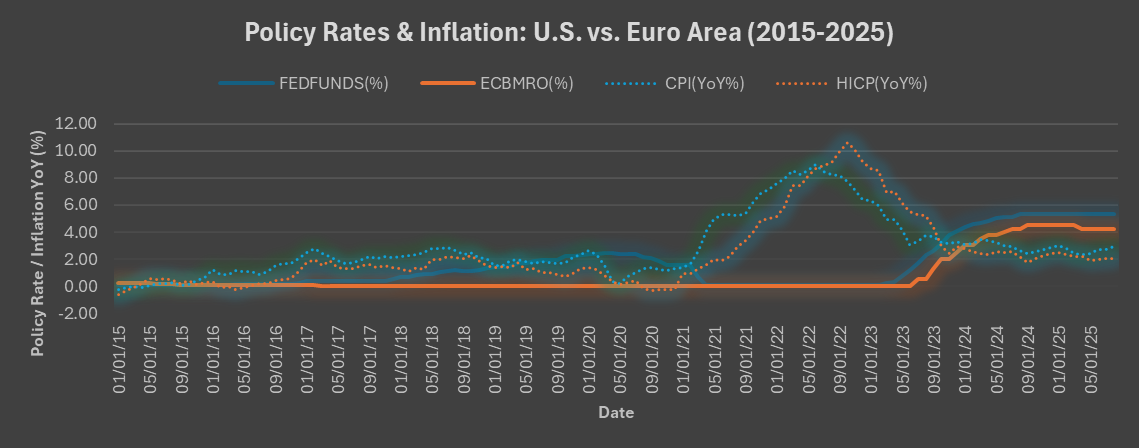
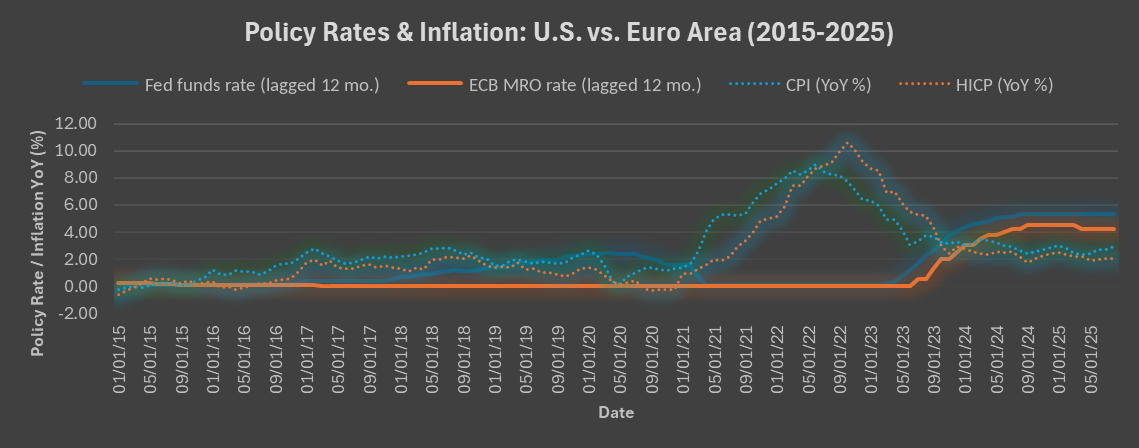
Sync brief with Word version: lag notes, supporting charts, references

Changed region(s): [[0.3995, 0.1562, 0.9219, 0.2188], [0.0615, 0.1562, 0.3687, 0.2188]]

diff --git a/brief.html b/brief.html
@@ -34,6 +34,8 @@ h1 { font-size: clamp(2rem, 5vw, 3rem); line-height: 1.15; margin: 0 0 0.5rem; }
 h2 { font-size: 1.5rem; margin: 3rem 0 1rem; }
 .meta { font-family: "JetBrains Mono", monospace; font-size: 0.8125rem; color: var(--soft); }
 .back { font-size: 0.9375rem; text-decoration: none; }
+.refs { list-style: none; padding: 0; font-size: 0.875rem; color: var(--soft); }
+.refs li { margin: 0 0 0.6rem; padding-left: 1.5rem; text-indent: -1.5rem; overflow-wrap: anywhere; }
 </style>
 </head>
 <body>
@@ -42,19 +44,19 @@ h2 { font-size: 1.5rem; margin: 3rem 0 1rem; }
   <h1>Do central bank wins translate to household wins?</h1>
   <p class="meta">U.S. vs. Euro Area, 2015 to 2025 · Ben Coppage · October 2025</p>
 
-    <section>
+  <section>
     <h2>The Finding</h2>
-    <p>In the end, both the Federal Reserve and the European Central Bank achieved their narrow mandates of disinflation between 2023 and 2025. Inflation converged toward 2 percent, unemployment remained stable, and financial systems avoided crisis. Growth diverged more sharply: U.S. real GDP averaged about 2.8 percent in 2024, while the Euro Area ran at about 1.5 percent in the first half of 2025, still well below the U.S. pace.</p>
-    <p>Yet beneath those aggregates, household balance sheets told a different story. From 2023 to early 2025, U.S. households had savings rates hovering around 5 to 6 percent and debt levels in the range of 68 to 74 percent of GDP. By contrast, Euro Area households maintained significantly higher savings rates of about 13 to 15 percent and lower debt ratios of roughly 51 to 55 percent of GDP. These indicators show that while the macro picture converged, the micro foundations of resilience diverged.</p>
+    <p>In the end, both the Federal Reserve and the European Central Bank achieved their narrow mandates of disinflation between 2023 and 2025. Inflation converged toward 2 percent, unemployment remained stable, and financial systems avoided crisis. Growth diverged more sharply: in 2024, U.S. real GDP growth averaged about 2.8 percent against about 0.8 percent in the Euro Area. In the first half of 2025, the U.S. ran near 2.1 percent and the Euro Area near 1.5 percent, still below the U.S. pace.</p>
+    <p>Yet beneath those aggregates, household balance sheets told a different story. From 2023 through mid-2025, U.S. household savings rates ran between 4.7 and 6.1 percent, with debt at 68 to 74 percent of GDP. By contrast, Euro Area households saved 13.4 to 15.2 percent and carried debt of 51 to 55 percent of GDP. These indicators show that while the macro picture converged, the micro foundations of resilience diverged.</p>
   </section>
 
-    <section>
+  <section>
     <h2>Exhibits</h2>
 
     <figure style="margin:0 0 2.5rem;">
       <h3 style="font-size:1.0625rem;margin:0 0 0.75rem;">Exhibit 1: Policy rates and inflation paths, U.S. vs. Euro Area, 2015 to 2025</h3>
-      <img src="images/exhibit1.png" alt="Line chart, 2015 to 2025, of the federal funds rate and ECB main refinancing rate (shifted 12 months) with U.S. CPI and Euro Area HICP inflation." style="max-width:100%;height:auto;border-radius:6px;border:1px solid var(--line);">
-      <figcaption style="color:var(--soft);font-size:0.9375rem;margin-top:0.75rem;">Both central banks raised rates sharply in 2022 and 2023. U.S. inflation peaked at 9.0 percent in June 2022, and both regions fell back toward 2 percent.<br><span class="meta">Sources: FRED, European Central Bank, Eurostat. Policy rates shown with a 12-month lag.</span></figcaption>
+      <img src="images/exhibit1.png" alt="Line chart, 2015 to 2025, of the federal funds rate and ECB main refinancing rate (lagged 12 months) with U.S. CPI and Euro Area HICP inflation." style="max-width:100%;height:auto;border-radius:6px;border:1px solid var(--line);">
+      <figcaption style="color:var(--soft);font-size:0.9375rem;margin-top:0.75rem;">Policy rates are shifted forward 12 months for the delay before they affect inflation, so the 2022 hikes appear in 2023. Inflation peaked at 9.0 percent in the U.S. (June 2022) and 10.6 percent in the Euro Area (October 2022), then fell back toward 2 percent.<br><span class="meta">Sources: FRED, European Central Bank, Eurostat. Rates run through August 2024; inflation through August 2025.</span></figcaption>
     </figure>
 
     <figure style="margin:0 0 2.5rem;">
@@ -70,25 +72,57 @@ h2 { font-size: 1.5rem; margin: 3rem 0 1rem; }
     </figure>
   </section>
 
-   <section>
+  <section>
     <h2>Why It Matters</h2>
     <p>Euro Area member states maintain more robust social welfare systems and stronger worker protections, reinforcing household resilience even amid slower growth. The United States, by contrast, delivers faster expansion but leaves households more vulnerable.</p>
     <p>The lesson for both institutions is clear: monetary policy outcomes must not be assessed in isolation, but in concert with fiscal and social policy, domains neither central bank governs.</p>
   </section>
 
-   <section>
+  <section>
     <h2>Method Note</h2>
-    <p><strong>Data.</strong> Policy rates are the federal funds rate (FRED) and the ECB main refinancing rate (ECB). Inflation is U.S. CPI and Euro Area HICP, year-over-year. Unemployment and real GDP growth (year-over-year) are U.S. series from FRED and Euro Area series from Eurostat. Household saving rates and household debt-to-GDP come from the Bank for International Settlements. Monthly series run from 2015 to 2025. Unemployment, GDP growth, and the Phillips curve cover 2023 to 2025. Household series are quarterly and run through early 2025.</p>
+    <p><strong>Data.</strong> Policy rates are the federal funds rate (FRED) and the ECB main refinancing rate (ECB). Policy rates are lagged 12 months to align rate changes with their expected effect on inflation. Rate changes act on prices with a delay (Friedman, 1961), and a meta-analysis puts the average lag to the peak effect on prices at 29 months (Havranek and Rusnak, 2013). This brief uses 12 months, a conservative choice at the short end of that range. Inflation is U.S. CPI and Euro Area HICP, year-over-year. Unemployment and real GDP growth (year-over-year) are U.S. series from FRED and Euro Area series from Eurostat. Household saving rates and household debt-to-GDP come from the Bank for International Settlements. Monthly inflation and unemployment series run from 2015 through August 2025. The policy rate series runs from 2014 through August 2024. Unemployment, GDP growth, and the Phillips curve cover 2023 to 2025. Household series are quarterly: saving rates run through 2025 Q2 and debt-to-GDP through 2025 Q1.</p>
     <p><strong>What was compared.</strong> Each series was compared across the U.S. and the Euro Area over the same window. The question was whether disinflation toward the 2 percent target came with stable unemployment and continued growth, and whether household balance sheets looked the same on both sides.</p>
     <p><strong>Limitations.</strong></p>
     <ul>
-      <li>The rate series ends August 2024. Any claim about late 2024 rate cuts depends on an external source.</li>
-      <li>Policy rates in Exhibit 1 are shown with a 12-month lag to reflect transmission effects.</li>
+      <li>Policy rate data ends August 2024. It does not include the rate cuts that followed.</li>
       <li>The differences cannot be attributed to monetary policy alone. Fiscal and social policy sit outside the central banks' mandates and outside the scope of the data.</li>
     </ul>
   </section>
 
-  <!-- NEXT SECTION GOES HERE -->
+  <section>
+    <h2>Supporting Charts</h2>
+
+    <figure style="margin:0 0 2.5rem;">
+      <h3 style="font-size:1.0625rem;margin:0 0 0.75rem;">Figure 1: Unemployment rates, U.S. vs. Euro Area, 2023 to 2025</h3>
+      <img src="images/figure1.png" alt="Line chart of monthly unemployment, January 2023 to August 2025: U.S. between 3.4 and 4.3 percent, Euro Area between 6.2 and 6.7 percent." style="max-width:100%;height:auto;border-radius:6px;border:1px solid var(--line);">
+      <figcaption style="color:var(--soft);font-size:0.9375rem;margin-top:0.75rem;">U.S. unemployment remained stable around 3.4 to 4.3 percent, while Euro Area unemployment persisted at a higher level of 6.2 to 6.7 percent.<br><span class="meta">Sources: FRED, Eurostat.</span></figcaption>
+    </figure>
+
+    <figure style="margin:0 0 2.5rem;">
+      <h3 style="font-size:1.0625rem;margin:0 0 0.75rem;">Figure 2: Real GDP growth, year-over-year, U.S. vs. Euro Area, 2023 to 2025</h3>
+      <img src="images/figure2.png" alt="Line chart of quarterly year-over-year real GDP growth, 2023 Q1 to 2025 Q2: U.S. between 2.0 and 3.4 percent, Euro Area between 0.0 and 1.6 percent." style="max-width:100%;height:auto;border-radius:6px;border:1px solid var(--line);">
+      <figcaption style="color:var(--soft);font-size:0.9375rem;margin-top:0.75rem;">Quarterly year-over-year real GDP growth in the United States and the Euro Area.<br><span class="meta">Sources: FRED, Eurostat.</span></figcaption>
+    </figure>
+
+    <figure style="margin:0 0 2.5rem;">
+      <h3 style="font-size:1.0625rem;margin:0 0 0.75rem;">Figure 3: Phillips curve, U.S. vs. Euro Area, 2023 to 2025</h3>
+      <img src="images/figure3.png" alt="Scatterplot of inflation against unemployment, 2023 to 2025: U.S. points at 3.4 to 4.3 percent unemployment, Euro Area points at 6.2 to 6.7 percent." style="max-width:100%;height:auto;border-radius:6px;border:1px solid var(--line);">
+      <figcaption style="color:var(--soft);font-size:0.9375rem;margin-top:0.75rem;">U.S. points cluster at 3.4 to 4.3 percent unemployment with inflation between 2.3 and 6.3 percent. Euro Area points cluster at 6.2 to 6.7 percent unemployment with inflation between 1.7 and 8.7 percent. Both economies disinflated while unemployment moved only modestly.<br><span class="meta">Sources: FRED, Eurostat.</span></figcaption>
+    </figure>
+  </section>
+
+  <section>
+    <h2>References</h2>
+    <ul class="refs">
+      <li>Bank for International Settlements. (n.d.). <em>Household debt and saving statistics</em>. <a href="https://www.bis.org">https://www.bis.org</a></li>
+      <li>European Central Bank. (n.d.). <em>Refinancing operations</em>. <a href="https://www.ecb.europa.eu/mopo/implement/omo/html/index.en.html">https://www.ecb.europa.eu/mopo/implement/omo/html/index.en.html</a></li>
+      <li>Eurostat. (2025). <em>GDP and employment both up by 0.1% in the euro area, Euro indicators, Q2 2025</em>. <a href="https://ec.europa.eu/eurostat/web/products-euro-indicators/w/2-05092025-ap">https://ec.europa.eu/eurostat/web/products-euro-indicators/w/2-05092025-ap</a></li>
+      <li>Eurostat. (n.d.). <em>Unemployment statistics</em>. <a href="https://ec.europa.eu/eurostat/statistics-explained/index.php?title=Unemployment_statistics">https://ec.europa.eu/eurostat/statistics-explained/index.php?title=Unemployment_statistics</a></li>
+      <li>Federal Reserve Bank of St. Louis. (n.d.). <em>FRED economic data</em>. <a href="https://fred.stlouisfed.org">https://fred.stlouisfed.org</a></li>
+      <li>Friedman, M. (1961). The lag in effect of monetary policy. <em>Journal of Political Economy, 69</em>(5), 447&#8211;466.</li>
+      <li>Havranek, T., &amp; Rusnak, M. (2013). Transmission lags of monetary policy: A meta-analysis. <em>International Journal of Central Banking, 9</em>(4), 39&#8211;76. <a href="https://www.ijcb.org/journal/ijcb13q4a2.htm">https://www.ijcb.org/journal/ijcb13q4a2.htm</a></li>
+    </ul>
+  </section>
 
 </main>
 </body>
